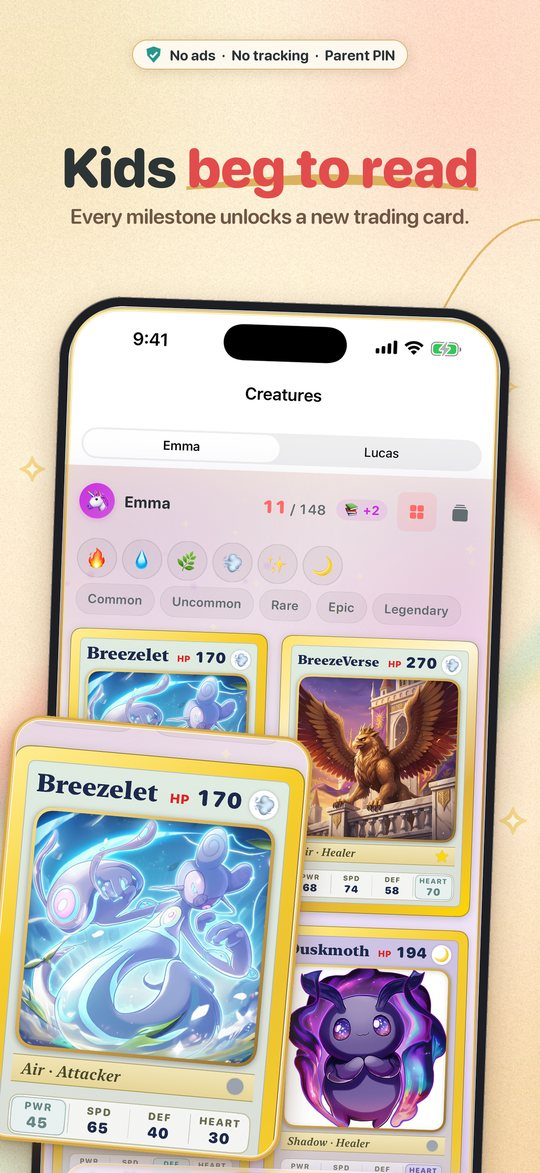
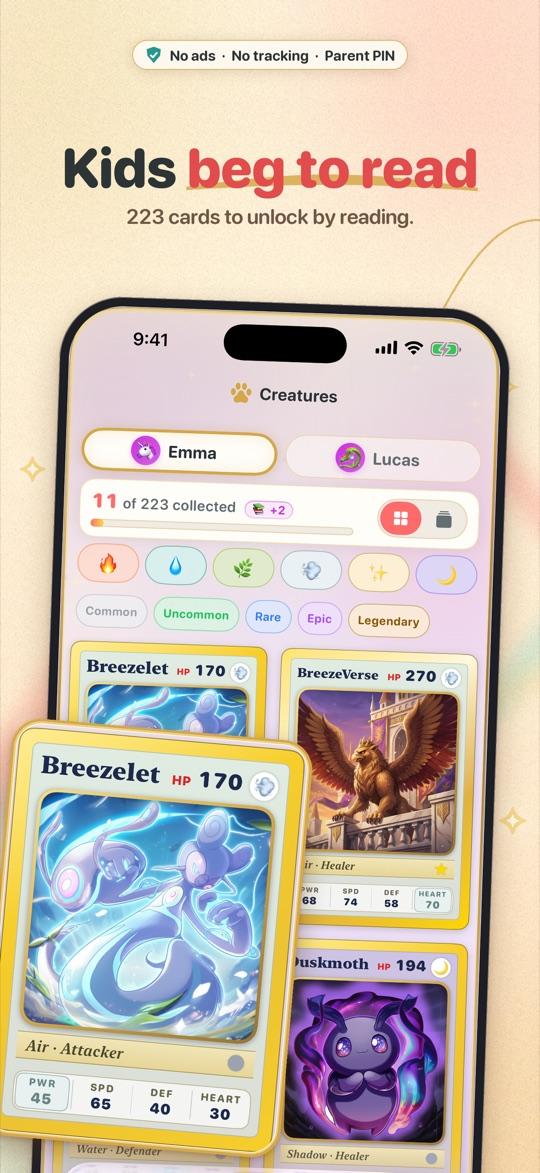
2.0: 223 creatures, army + dice battles, new screenshots

diff --git a/index.html b/index.html
@@ -4,12 +4,12 @@
     <meta charset="UTF-8">
     <meta name="viewport" content="width=device-width, initial-scale=1.0">
     <title>Read 2 Play | Reading earns screen time</title>
-    <meta name="description" content="Kids earn screen time by reading, collect 148+ creature cards and play real turn-based battles. No ads, no tracking, parent-controlled.">
+    <meta name="description" content="Kids earn screen time by reading, collect 223 creature cards and play real turn-based battles. No ads, no tracking, parent-controlled.">
     <link rel="icon" type="image/png" href="favicon.png">
     <link rel="apple-touch-icon" href="apple-touch-icon.png">
     <meta name="apple-itunes-app" content="app-id=6759507366">
     <meta property="og:title" content="Read 2 Play | Reading earns screen time">
-    <meta property="og:description" content="Kids bank reading time to earn screen time, collect 148+ creature cards and battle. Private and parent-controlled.">
+    <meta property="og:description" content="Kids bank reading time to earn screen time, collect 223 creature cards and battle. Private and parent-controlled.">
     <meta property="og:image" content="https://sourcefrenchy.github.io/read2play-site/icon-600.jpg">
     <link rel="stylesheet" href="style.css">
 </head>
@@ -44,7 +44,8 @@
             <img src="shots/01_home.jpg" alt="Home screen: each kid's next creature with Read and Play buttons" loading="lazy">
             <img src="shots/02_parent.jpg" alt="Manage Kids: each kid's reading to play rule, protected by the parent PIN" loading="lazy">
             <img src="shots/03_creatures.jpg" alt="A collection of creature trading cards" loading="lazy">
-            <img src="shots/04_battle.jpg" alt="A five-round creature battle between two kids" loading="lazy">
+            <img src="shots/04_battle.jpg" alt="A creature battle: both fighters roll a die, a 6 is a critical hit" loading="lazy">
+            <img src="shots/05_army.jpg" alt="Build your army: pick the creatures for a battle" loading="lazy">
             <img src="shots/05_book.jpg" alt="Brain Boost math challenge after finishing a book" loading="lazy">
             <img src="shots/06_stats.jpg" alt="Weekly reading progress with minutes per day" loading="lazy">
         </div>
@@ -53,8 +54,8 @@
         <p class="section-sub">And why parents keep it on the home screen.</p>
         <div class="grid">
             <div class="card panel"><div class="ico">📖</div><h3>You set the rules</h3><p>Choose each kid's rule in plain words, like 15 min reading = 10 min play. Everything is protected by your parent PIN.</p></div>
-            <div class="card panel"><div class="ico">🐉</div><h3>148+ creatures</h3><p>Reading milestones unlock trading-card creatures. Kids at the same level get different cards, so every collection is their own.</p></div>
-            <div class="card panel"><div class="ico">⚔</div><h3>Real battles</h3><p>Five rounds of choices: pick a creature, then Strike, Guard or a Special. Underdog Spirit keeps younger siblings in the game.</p></div>
+            <div class="card panel"><div class="ico">🐉</div><h3>223 creatures</h3><p>Reading milestones unlock trading-card creatures. Kids at the same level get different cards, so every collection is their own.</p></div>
+            <div class="card panel"><div class="ico">⚔</div><h3>Real battles</h3><p>Build an army, then three rounds of choices: pick a creature, Strike, Guard or a Special, and roll the dice. Underdog Spirit keeps younger siblings in the game.</p></div>
             <div class="card panel"><div class="ico">🧮</div><h3>Brain Boost</h3><p>Finishing a book earns a unique Book Rare card after a quick math challenge matched to your child's age.</p></div>
             <div class="card panel"><div class="ico">📈</div><h3>See their progress</h3><p>Reading this week, minutes per day, streaks and books finished, all on one screen.</p></div>
             <div class="card panel"><div class="ico">🔒</div><h3>Private by design</h3><p>No accounts, ads, analytics or tracking. Data stays on your device and your own iCloud. The family leaderboard is optional and off by default.</p></div>

diff --git a/support.html b/support.html
@@ -29,8 +29,8 @@
 
             <h2>Frequently asked</h2>
             <details><summary>How does reading turn into screen time?</summary><div><p>Kids tap <strong>Read</strong> to bank time. Parents set a rule per child in Parent Settings, then Manage Kids (for example, 15 min reading = 10 min play, or equal time). Kids then tap <strong>Play</strong> to spend it, and a friendly chime sounds when time is up.</p></div></details>
-            <details><summary>How do creatures work?</summary><div><p>Reading milestones and reading streaks unlock collectible creature cards, over 148 in all across 6 elements and 3 battle roles. Kids who reach the same level get different creatures with the same power, so every collection is unique. Finishing a book earns a special Book Rare card.</p></div></details>
-            <details><summary>How do battles work?</summary><div><p>Once a day, two kids can battle each other, or one kid can battle the Wild Ones. Each of five rounds, every kid secretly picks a creature and a move: Strike, Guard or a Special. Younger kids get Underdog Spirit when they fall behind, so battles stay close. The winner earns a Win Token.</p></div></details>
+            <details><summary>How do creatures work?</summary><div><p>Reading milestones and reading streaks unlock collectible creature cards, 223 in all across 6 elements and 3 battle roles. Kids who reach the same level get different creatures with the same power, so every collection is unique. Finishing a book earns a special Book Rare card.</p></div></details>
+            <details><summary>How do battles work?</summary><div><p>Once a day, two kids can battle each other, or one kid can battle the Wild Ones. Each kid first builds an army from their collection. Then, in each of three rounds, every kid secretly picks a creature and a move: Strike, Guard or a Special, and both roll a die that makes the move weaker or stronger (a 6 is a critical hit). Younger kids get Underdog Spirit when they fall behind, so battles stay close. The winner earns a Win Token.</p></div></details>
             <details><summary>What is the book challenge?</summary><div><p>In the Books tab, tap Complete a Book, pick the reader and optionally add the title and a cover photo. Then comes the Brain Boost: a quick math question matched to the child's age (from two-digit sums at 5 to times tables at 8 and beyond). A correct answer earns a Rare card, and any answer still earns a card. Each child gets their own unique Book Rare.</p></div></details>
             <details><summary>I forgot my parent PIN.</summary><div><p>For safety the PIN is stored only on your device and we can't recover it. You can reset it by deleting and reinstalling the app, which also clears the app's data on that device.</p></div></details>
             <details><summary>What is the Reading Leaderboard?</summary><div><p>An optional feature that's off by default and turned on by a parent with the PIN. It publishes a nickname, an optional city and its country, an emoji, a reading score and average daily reading minutes, which other app users can see. The nickname starts as the name you gave your child in the app and is published straight away, so change it in Ranking Settings to one that isn't their real name. It never publishes age, birthday, exact location or photos. Turning it off removes the entry when the device is online and signed in to the same iCloud account that published it; otherwise email support@jma.zone with the nickname and city and we'll delete it.</p></div></details>
